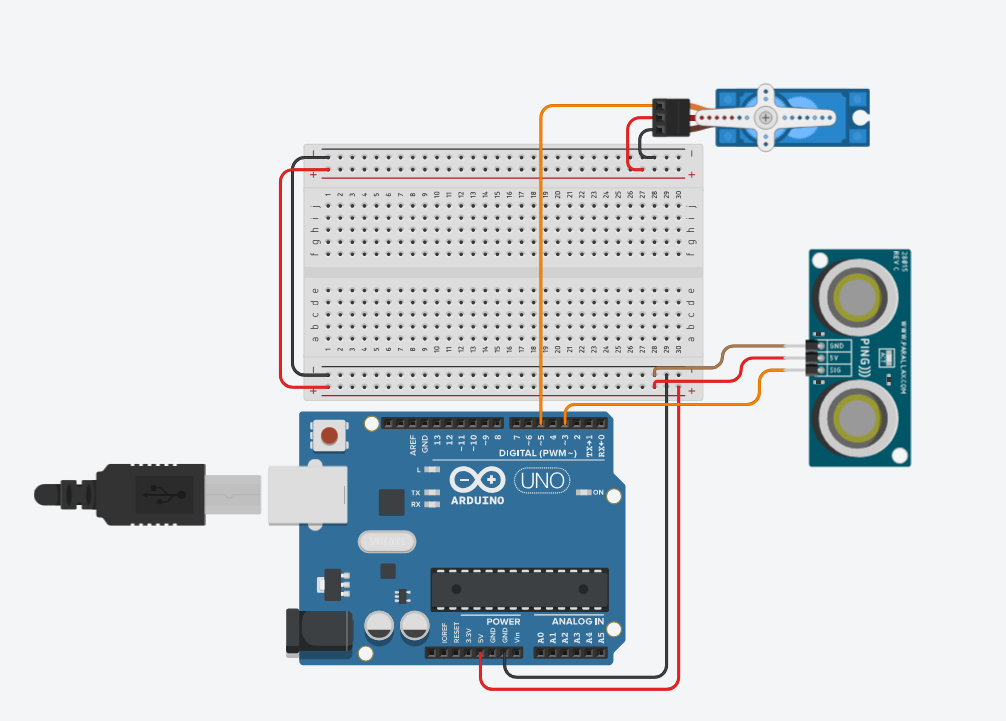
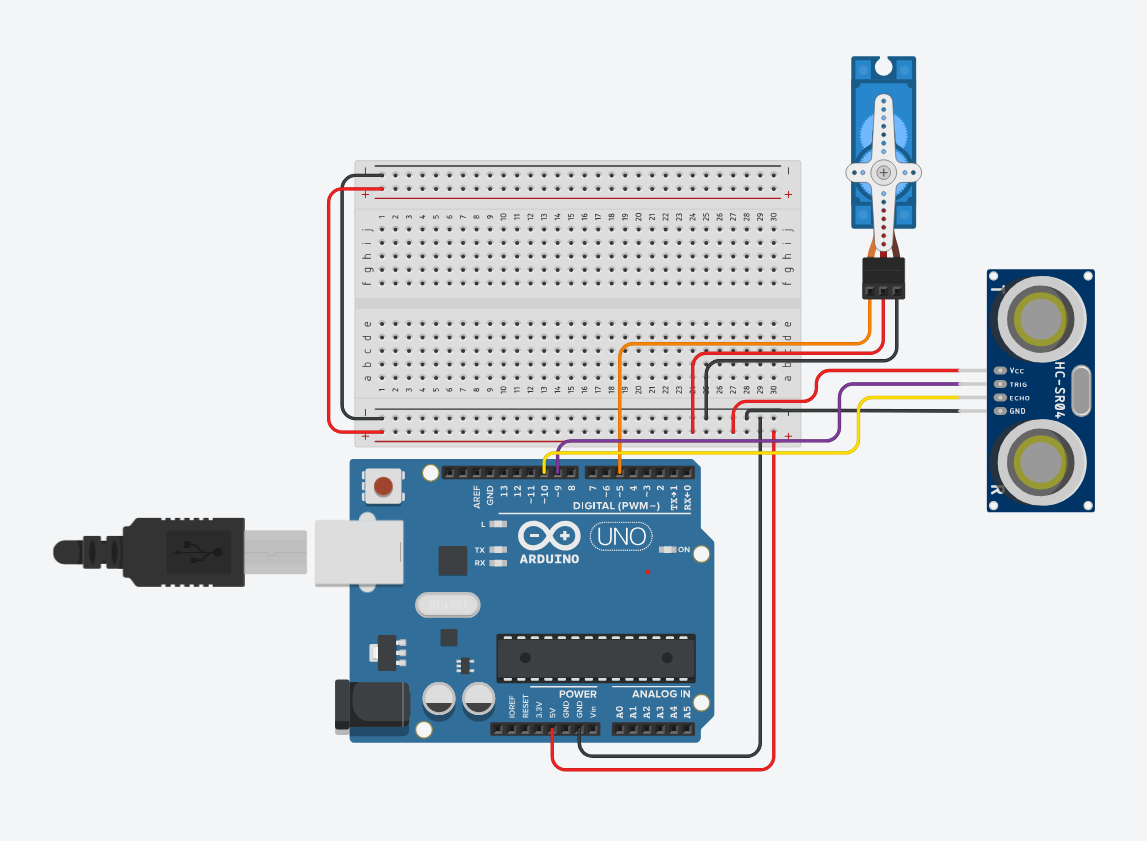
Feat: update analyse.md and arduino-code.txt for ultrasonic sensor pin configuration

Changed region(s): [[0.0308, 0.061, 0.9553, 0.9764]]

diff --git a/opdracht-6/analyse.md b/opdracht-6/analyse.md
@@ -22,14 +22,19 @@ cm = ms / 29 / 2
 De snelheid van geluid is 340 m/s of 29 ms/cm.  
 Omdat het signaal heen en weer gaat, moet de tijd gedeeld worden door 2.
 
+Tijdens het uitvoeren van de proef met de Arduino, kwam ik erachter dat we de ultrasoonsensor hebben met 4 pinnen, niet met 3.  
+Hierdoor moest ik wat extra informatie opzoeken over deze andere sensor. Het enige verschil is dat er geen pingPin is, maar een triggerPin en een echoPin.  
+Hierdoor hoef ik ook niet de INPUT of OUTPUT te veranderen van de pin, maar kan je dus de twee pinnen los van elkaar gebruiken.
+
 ## Verzameling
 - Ik heb een Arduino Uno kit nodig.
 - Ik heb een BreadBoard nodig.
 - Ik heb 1 servomotor nodig.
 - Ik heb 1 ultrasoon zender/ontvanger nodig.
-- Ik heb 8 draadjes nodig. (3 voor de servo, 3 voor de ultrasoonzender en 2 voor de voeding van het breadboard.)
+- Ik heb 9 draadjes nodig. (3 voor de servo, 4 voor de ultrasoonzender en 2 voor de voeding van het breadboard.)
 - Ik heb een USB kabel nodig, om de Arduino Uno aan te sluiten op de computer.
 - Ik heb een computer nodig, om de Arduino IDE te gebruiken.
 
 ## Bronnen
 https://docs.arduino.cc/built-in-examples/sensors/Ping/
+https://projecthub.arduino.cc/Isaac100/getting-started-with-the-hc-sr04-ultrasonic-sensor-7cabe1
